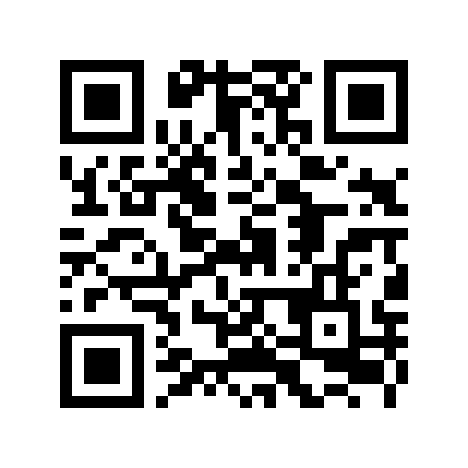
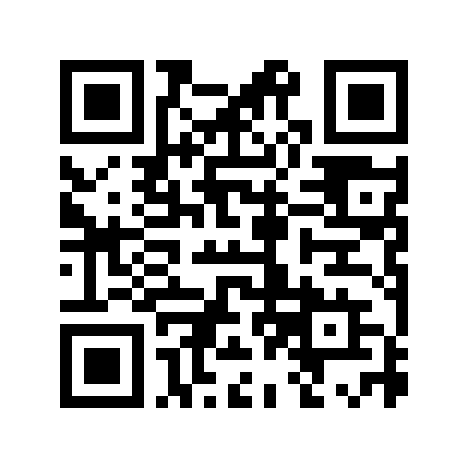
PayPal URL lowercased to paypal.me/marcodalmoro (link text, QR payload, script default, KB)

Changed region(s): [[0.1197, 0.1197, 0.8974, 0.8974], [0.5085, 0.2393, 0.5385, 0.2991]]

diff --git a/scripts/make-qr.swift b/scripts/make-qr.swift
@@ -4,7 +4,7 @@
 // network access or new dependencies (CoreImage is system-provided).
 //
 // Usage: swift scripts/make-qr.swift [output.png] [url]
-// Defaults: assets/paypal-qr.png, https://paypal.me/MarcoDalmoro
+// Defaults: assets/paypal-qr.png, https://paypal.me/marcodalmoro
 //
 // Self-verifies: after writing, decodes the PNG back with CIDetector's QR
 // reader and fails loudly unless the payload round-trips exactly.
@@ -12,7 +12,7 @@
 import AppKit
 import CoreImage
 
-let payURL = CommandLine.arguments.count > 2 ? CommandLine.arguments[2] : "https://paypal.me/MarcoDalmoro"
+let payURL = CommandLine.arguments.count > 2 ? CommandLine.arguments[2] : "https://paypal.me/marcodalmoro"
 let outPath = CommandLine.arguments.count > 1 ? CommandLine.arguments[1] : "assets/paypal-qr.png"
 let scale = 12        // px per QR module (crisp, nearest-neighbor)
 let quietModules = 4  // quiet zone around the code, in modules (spec suggests 4)

diff --git a/Sources/DiskLEDPlus/AboutWindowController.swift b/Sources/DiskLEDPlus/AboutWindowController.swift
@@ -120,7 +120,7 @@ final class AboutWindowController: NSObject {
         if let qrView { views.append(qrView) }
         views.append(contentsOf: [
             label("Support DiskLED-plus", 13, .semibold),
-            link("paypal.me/MarcoDalmoro", URL(string: "https://paypal.me/MarcoDalmoro")!, 11),
+            link("paypal.me/marcodalmoro", URL(string: "https://paypal.me/marcodalmoro")!, 11),
             label("Point your phone's camera at the code — or click the link.", 10,
                   .regular, .secondaryLabelColor),
             divider(),

diff --git a/scripts/make-bug-report-mockup.swift b/scripts/make-bug-report-mockup.swift
@@ -170,7 +170,7 @@ func drawAbout(into rect: NSRect) {
         y += side + 6
     }
     y += label("Support DiskLED-plus", 13, .semibold, .labelColor, cx, y) + 5
-    y += label("paypal.me/MarcoDalmoro", 11, .regular, .linkColor, cx, y) + 5
+    y += label("paypal.me/marcodalmoro", 11, .regular, .linkColor, cx, y) + 5
     y += label("Point your phone's camera at the code — or click the link.", 10,
                .regular, .secondaryLabelColor, cx, y) + 14
 

diff --git a/KB.md b/KB.md
@@ -157,7 +157,7 @@ interactive shell use the absolute path `/usr/bin/log`.
   launches only); Check for Updates… (bundle launches only); **Settings…**
   (⌘,, §Settings); **About DiskLED-plus** — the custom About mini page
   (`AboutWindowController.swift`, same design as NeverSleep's and dotbar's):
-  app icon, name, version, the PayPal donation QR + `paypal.me/MarcoDalmoro`
+  app icon, name, version, the PayPal donation QR + `paypal.me/marcodalmoro`
   link (§Packaging), © 2026 Marcus1571, MIT license, a clickable repo link, a
   "Report a Bug" section (ladybug + link to the repo's GitHub Issues page),
   and the project tagline; **Report a Bug…** — menu item with the SF Symbol
@@ -246,7 +246,7 @@ interactive shell use the absolute path `/usr/bin/log`.
   via `CFBundleIconFile`. No `.icns` binary lives in git; the README's
   rendered copy is `docs/img/app-icon.png`.
 - **Donation QR:** `assets/paypal-qr.png` (committed; generated by the
-  self-verifying `scripts/make-qr.swift`, payload `https://paypal.me/MarcoDalmoro`)
+  self-verifying `scripts/make-qr.swift`, payload `https://paypal.me/marcodalmoro`)
   is copied into `Resources/paypal-qr.png` by `make-app.sh` and shown on the
   About mini page (§Menu). The About block degrades to text when the resource
   is absent (bare-binary launches).
